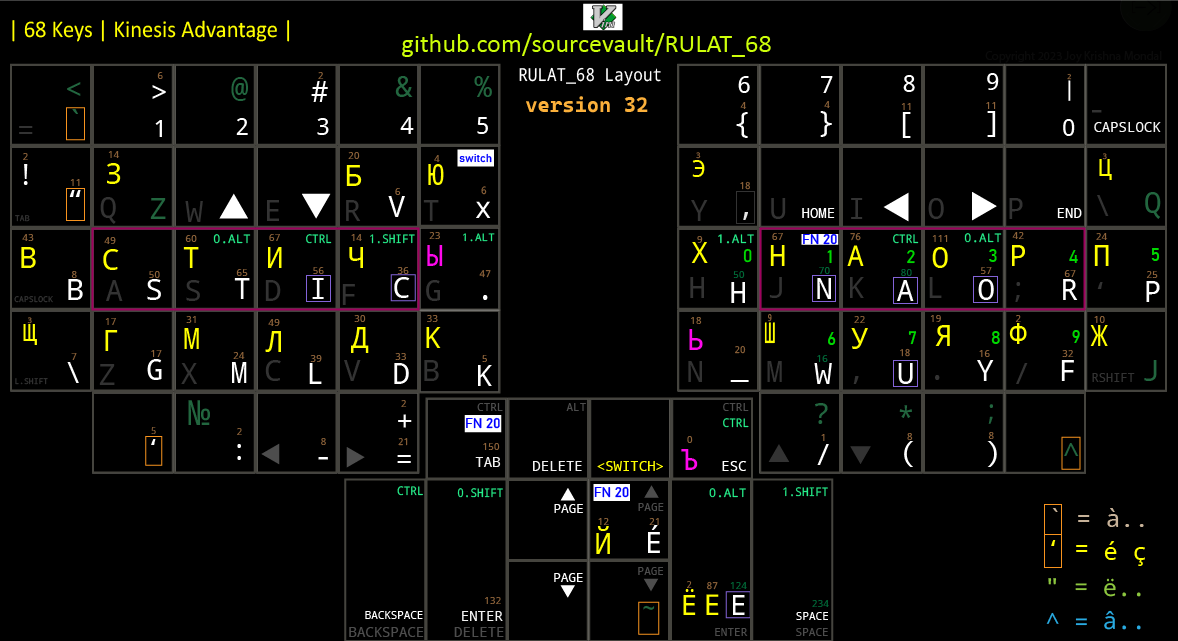
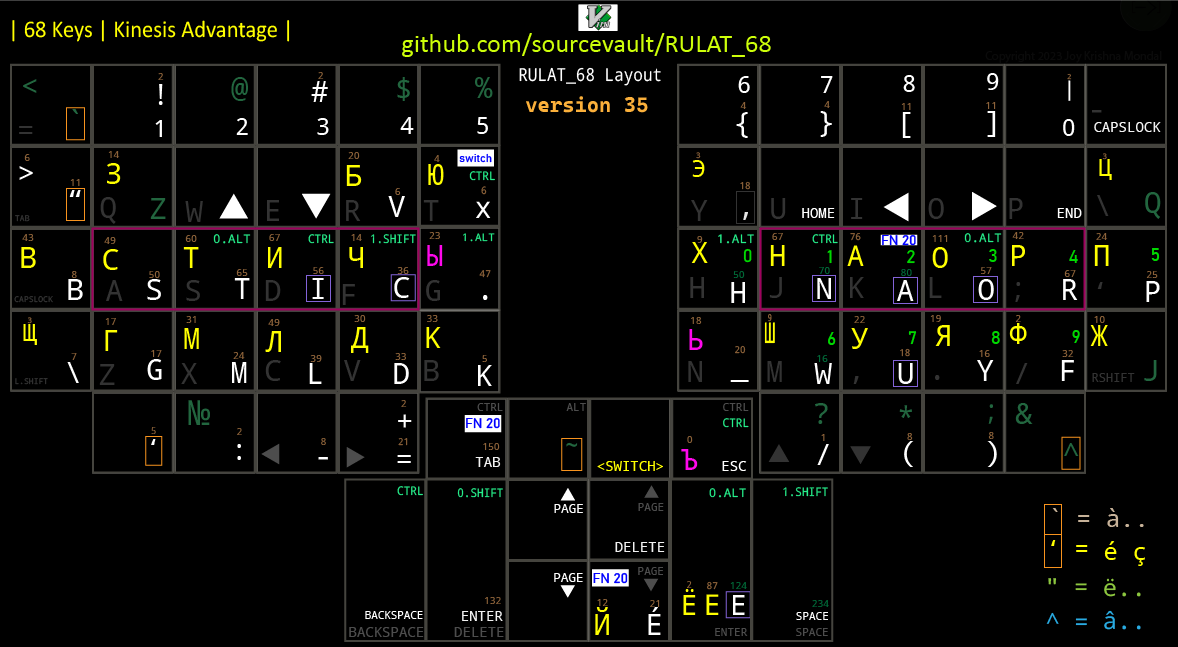
RULAT version 35

diff --git a/readme.md b/readme.md
@@ -3,7 +3,7 @@
 
 `⛔ only for Windows ⛔`
 
-⚠ code provided will only work for Kinesis Advantage 2 ( or keyboard with similar layout ) with the  bottom row `\` remapped to `F8`, the repo is kept mainly to show the layout design and what is possible
+⚠ code provided will only work for Kinesis Advantage 1/2 ( or keyboard with similar layout ) with the  bottom row `\` remapped to `F8`, the repo is kept mainly to showcase the layout design, the decisions made to create it and what is possible.
 
 Combined language keyboard layout using [autohotkey](https://www.autohotkey.com) and [dual.ahk](https://github.com/lydell/dual/) targeting english, french and russian symbols.
 
